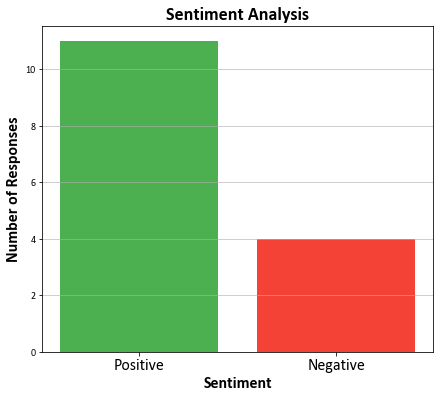
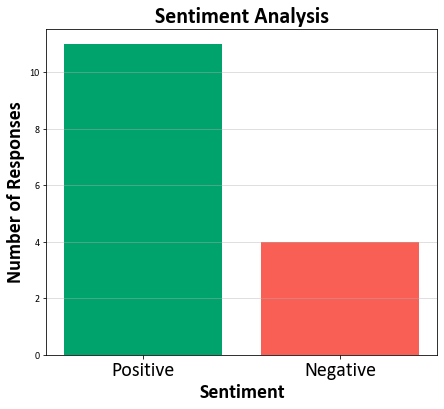
Add files via upload

diff --git a/website_thematicanalysis.py b/website_thematicanalysis.py
@@ -80,12 +80,12 @@ for code, keywords in codes.items():
     
 ###############################################################################################################
 # Plotting results
-fs=16
-xtfs=14
+fs=20
+xtfs=fs-2
 plt.rcParams['font.family'] = 'Calibri'
 
 # Bar plot of code frequency
-plt.figure(figsize=(8, 6))
+plt.figure(figsize=(7, 6))
 code_counts = df.iloc[:, 3:].sum()
 plt.bar(code_counts.index, code_counts.values, color='skyblue', edgecolor='black')
 plt.xlabel("Themes", fontweight='bold', fontsize=fs)
@@ -145,10 +145,10 @@ print(f"Negative responses: {num_neg}")
 
 # Plot bar chart
 fig, ax = plt.subplots(figsize=(7, 6))
-ax.bar(["Positive", "Negative"], [num_pos, num_neg], color=["#4CAF50", "#F44336"])
+ax.bar(["Positive", "Negative"], [num_pos, num_neg], color=["#00A36C", "#FA5F55"])
 ax.set_xticklabels(["Positive", "Negative"], fontsize=fs)
 ax.set_xlabel("Sentiment", fontsize=fs, fontweight="bold")
 ax.set_ylabel("Number of Responses", fontsize=fs, fontweight="bold")
 ax.set_title("Sentiment Analysis", fontsize=fs+2, fontweight="bold")
-plt.grid(axis='y', alpha=0.75)
+plt.grid(axis='y', alpha=0.5)
 plt.show()
